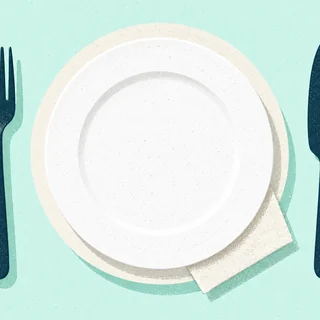
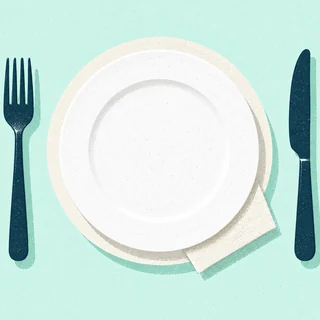
fix(assets): stop the crop from cutting the cutlery
item.webp lost its knife: the plate setting was cropped with a fixed 0.78 centre
window and the knife sits further out than the fork, so the right edge shaved it.
Recropped from the 1254 px original on the subject box with margin on all four
sides — the generation was fine, only the crop was wrong.

Contract now says to measure the subject box and keep at least 4% of the short
edge on the tightest side, and to fix a cut by recropping the original rather than
regenerating.

diff --git a/prototype/src/assets/ART_CONTRACT.md b/prototype/src/assets/ART_CONTRACT.md
@@ -55,6 +55,12 @@ thumbnail dan sheet, cukup untuk layar 3× pada ukuran 104–120 px.
   benar-benar satu warna datar dan perlu transparan.
 - Ukuran tampil minimum: **110 px**. Di bawah itu grain jadi noise; naikkan ukuran
   tampil atau sederhanakan gambar.
+- **Jangan memotong subjek saat crop.** Ukur dulu kotak subjek (paling luar dari
+  objek, bayangan ikut), lalu sisakan paling sedikit **4% sisi pendek** di sisi
+  terketat. Crop tengah dengan fraksi tetap (0.78, 0.80) adalah cara paling gampang
+  memotong pisau — pernah kejadian di `item.webp`.
+- Kalau subjek terpotong, **perbaiki crop dari PNG asli 1254 px**, jangan generate
+  ulang. Generatornya benar; pemotongnya yang salah.
 - Jangan menaruh teks, angka, atau logo di dalam gambar. Semua makna dibawa teks UI.
 
 ## Cara menilai hasil
